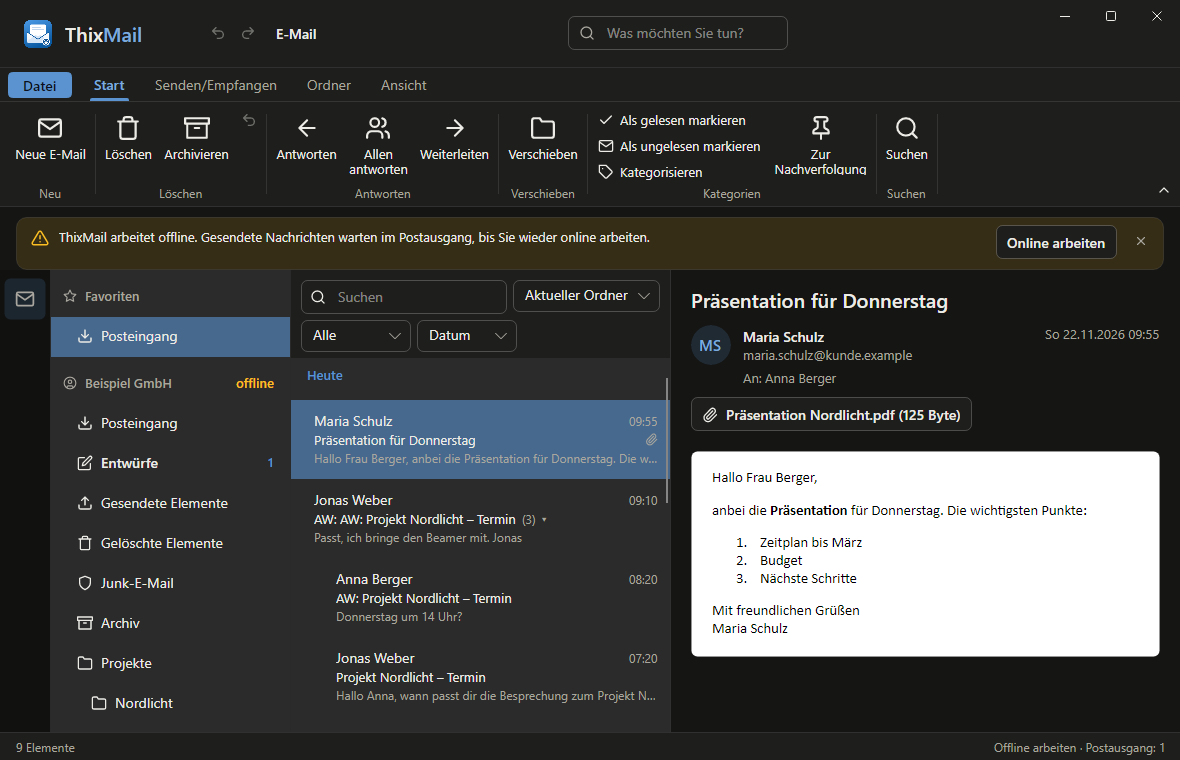
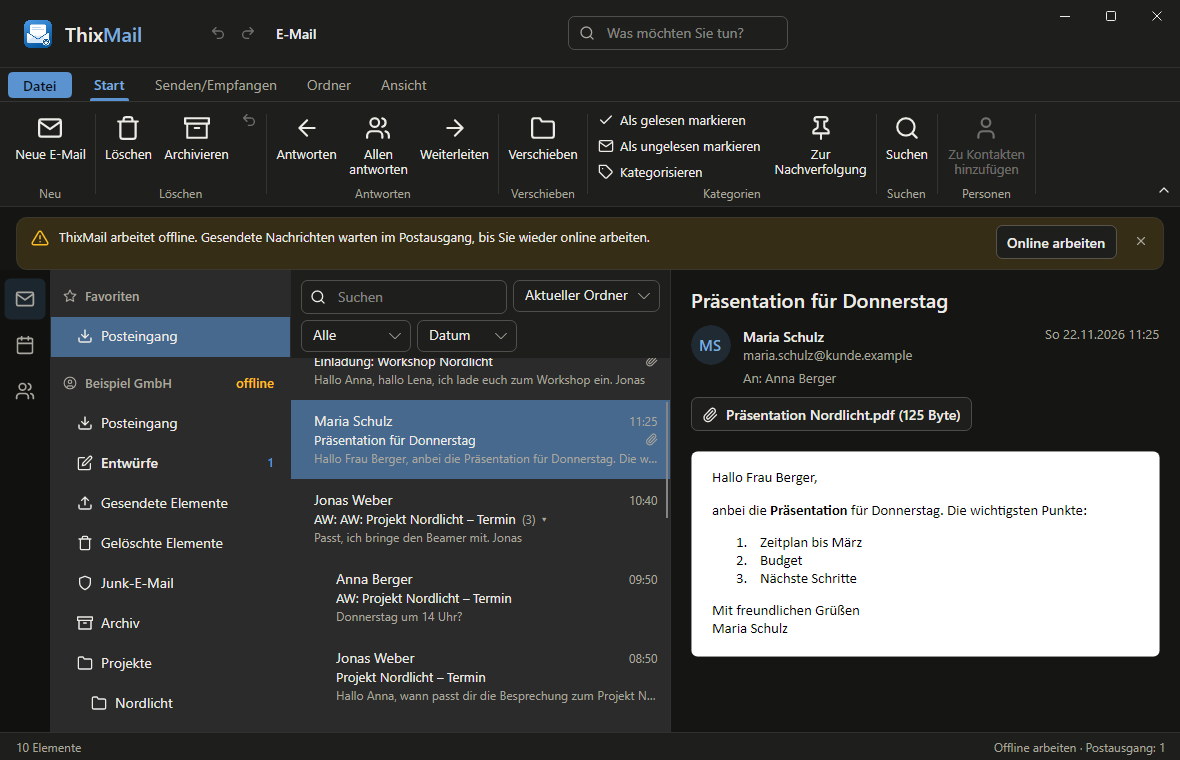
ThixMail: Zu Kontakten hinzufügen (the sender as a contact), the self test checks invitations and the calendar's items; docs: CLAUDE.md, README and PLAN.md for 7c (what is built and what is not), README pictures

diff --git a/src/ThixMail/Editor/MailCommands.cs b/src/ThixMail/Editor/MailCommands.cs
@@ -313,6 +313,13 @@ public static class MailCommands
             Keywords = ["bilder", "laden", "blockiert", "extern"],
             CanExecute = () => window.Editor is MailEditor { Reader.ShowsImagesBar: true },
         });
+        commands.Add(new OfficeCommand(MailCommandIds.AddSenderToContacts, "Zu Kontakten hinzufügen", () => AddSenderAsync(window, Editor()))
+        {
+            Icon = "user",
+            Description = "Legt den Absender der ausgewählten Nachricht als Kontakt an (Personen in der ThixCloud).",
+            Keywords = ["kontakt", "absender", "adressbuch", "person", "speichern"],
+            CanExecute = () => HasOne() && Editor().Document.Pim.IsAvailable,
+        });
         commands.Add(new OfficeCommand(MailCommandIds.AddAccount, "Konto hinzufügen", () => window.ShowBackstage(AccountsPage.PageId))
         {
             Icon = "user",
@@ -340,6 +347,33 @@ public static class MailCommands
                 SearchPenalty = command.SearchPenalty,
                 YieldsToTextField = command.YieldsToTextField,
             });
+        }
+    }
+
+    /// <summary>"Zu Kontakten hinzufügen": the contact dialog with the sender's name and address (an existing contact of that address opens instead).</summary>
+    private static async Task AddSenderAsync(OfficeWindow window, MailEditor editor)
+    {
+        if (editor.Current is not { } header || editor.Document.Pim.People is not { } people)
+        {
+            return;
+        }
+
+        var address = header.From.Address;
+        var existing = people.People.FirstOrDefault(p => p.Data.Emails.Any(e => e.Value.Equals(address, StringComparison.OrdinalIgnoreCase)));
+        var dialog = new ThixOffice.Pim.Desktop.People.ContactDialog(people, existing);
+        if (existing is null)
+        {
+            var name = header.From.Name.Trim();
+            var comma = name.IndexOf(',');
+            var space = name.LastIndexOf(' ');
+            (dialog.GivenName.Text, dialog.FamilyName.Text) = comma > 0 ? (name[(comma + 1)..].Trim(), name[..comma].Trim()) // "Schulz, Maria"
+                : space > 0 ? (name[..space], name[(space + 1)..]) : (name, "");
+            dialog.Emails.Rows[0].Box.Text = address;
+        }
+
+        if (await dialog.ShowAsync(window))
+        {
+            window.ShowMessage(existing is null ? $"„{header.From.Display}“ ist jetzt in Ihren Kontakten." : "Der Kontakt wurde gespeichert.", InfoSeverity.Success, isClosable: true);
         }
     }
 

diff --git a/src/ThixMail/MailSelfTest.cs b/src/ThixMail/MailSelfTest.cs
@@ -87,6 +87,24 @@ public static class MailSelfTest
             PdfExport.Export(pages, pdf, null, ThixWrite.Editor.WriteFonts.Measurer);
             Ensure(pdf.Length > 1000, "the PDF of a message is empty");
 
+            // 7c: invitations (iCalendar both ways) and ThixCalendar's items (the contract's JSON, trimmed publish included)
+            var invitation = ThixOffice.Pim.Calendar.Invitations.Read(ThixOffice.Pim.Calendar.Invitations.Request(new ThixOffice.Pim.Calendar.Invitation
+            {
+                Uid = "selbsttest@thixmail",
+                Summary = "Selbsttest",
+                Start = DateTimeOffset.UtcNow,
+                End = DateTimeOffset.UtcNow.AddHours(1),
+                Organizer = new ThixOffice.Pim.Calendar.InvitationAttendee("a@example.de", "A"),
+                Attendees = [new ThixOffice.Pim.Calendar.InvitationAttendee("b@example.de", "B")],
+            }));
+            Ensure(invitation is { Summary: "Selbsttest", Attendees.Count: 1 }, "an invitation does not survive iCalendar");
+            var item = ThixOffice.Pim.Calendar.CalendarItems.Serialize(new ThixOffice.Pim.Calendar.CalendarAppointment { CalendarKey = "a/b", Title = "x", Start = DateTimeOffset.UnixEpoch, End = DateTimeOffset.UnixEpoch });
+            Ensure(item.StartsWith("{\"calendar\":\"a/b\",\"title\":\"x\",", StringComparison.Ordinal) && item.Contains("\"status\":\"Confirmed\"", StringComparison.Ordinal), "the calendar's items are not ThixCalendar's");
+            editor.ShowView(Editor.MailArea.Calendar);
+            await Settle();
+            Ensure(editor.SignInPanel is not null || editor.CalendarView is not null, "the view Kalender does not show");
+            editor.ShowView(Editor.MailArea.Mail);
+
             return $"{count} messages synced, {server.Sent.Count} sent, PDF {pdf.Length / 1024} KB, {document.Store.CachedBytes / 1024} KB cached";
         }
         finally

diff --git a/tests/ThixMail.Tests/EmbeddingUiTests.cs b/tests/ThixMail.Tests/EmbeddingUiTests.cs
@@ -192,4 +192,27 @@ public sealed class EmbeddingUiTests
         await SettleAsync();
         Assert.Contains(editor.CalendarView.Shown, a => a.Title == "Workshop Nordlicht");
     }
+
+    [AvaloniaFact]
+    public async Task Zu_Kontakten_hinzufuegen_makes_the_sender_a_contact_with_name_and_address()
+    {
+        using var data = new TestData();
+        var window = await data.WindowAsync();
+        var editor = EditorOf(window);
+        var command = window.Commands[MailCommandIds.AddSenderToContacts];
+        editor.Select(Header(editor, "Präsentation für Donnerstag").Id);
+        await SettleAsync();
+        Assert.False(command.IsEnabled); // no ThixCloud: no contacts
+
+        await SignInAsync(new OfficeWindowLike(editor));
+        editor.Select(Header(editor, "Präsentation für Donnerstag").Id);
+        await SettleAsync();
+        Assert.True(command.IsEnabled);
+        var running = ThixOffice.Desktop.Shell.OfficeWindow.RunCommandAsync(window, command);
+        var dialog = await OwnedAsync<ContactDialog>(window);
+        Assert.Equal(("Maria", "Schulz", "maria.schulz@kunde.example"), (dialog.GivenName.Text, dialog.FamilyName.Text, dialog.Emails.Rows[0].Box.Text));
+        await ClickAsync(dialog, dialog.OkButton);
+        await running;
+        Assert.Contains(editor.Document.Pim.People!.People, p => p.Name == "Maria Schulz" && p.Email == "maria.schulz@kunde.example");
+    }
 }

diff --git a/src/ThixMail/Editor/MailEditor.cs b/src/ThixMail/Editor/MailEditor.cs
@@ -156,7 +156,7 @@ public sealed partial class MailEditor : OfficeEditor
         List.ContextMenu = OfficeCommandMenu.Create(window,
         [
             MailCommandIds.Reply, MailCommandIds.ReplyAll, MailCommandIds.Forward, null, MailCommandIds.ToggleRead, MailCommandIds.Categorize, MailCommandIds.Flag,
-            null, MailCommandIds.Move, MailCommandIds.Archive, MailCommandIds.Delete, null, MailCommandIds.SaveAs, MailCommandIds.Print,
+            null, MailCommandIds.Move, MailCommandIds.Archive, MailCommandIds.Delete, null, MailCommandIds.AddSenderToContacts, MailCommandIds.SaveAs, MailCommandIds.Print,
         ]);
 
         _emptyAction = new Button { Content = new IconLabel { Icon = "plus", Text = "Konto hinzufügen" } }.Themed("MatButton.Primary");

diff --git a/src/ThixMail/Editor/MailRibbon.cs b/src/ThixMail/Editor/MailRibbon.cs
@@ -39,7 +39,9 @@ public static class MailRibbon
                 Button(MailCommandIds.Categorize),
                 Toggle(MailCommandIds.Flag, size: MatRibbonSize.Large)),
             new MatRibbonGroup("find", "Suchen") { Icon = "search", ShrinkOrder = 5 }.Add(
-                Button(MailCommandIds.Search, MatRibbonSize.Large)));
+                Button(MailCommandIds.Search, MatRibbonSize.Large)),
+            new MatRibbonGroup("people", "Personen") { Icon = "users", ShrinkOrder = 6 }.Add(
+                Button(MailCommandIds.AddSenderToContacts, MatRibbonSize.Large)));
 
     private static MatRibbonTab SendReceiveTab() =>
         new MatRibbonTab("sendreceive", "Senden/Empfangen").Add(

diff --git a/src/ThixMail/Editor/MailCommandIds.cs b/src/ThixMail/Editor/MailCommandIds.cs
@@ -47,4 +47,5 @@ public static class MailCommandIds
     // the reading pane
     public const string LoadImages = "mail.loadImages";
     public const string AddAccount = "mail.addAccount";
+    public const string AddSenderToContacts = "mail.addSenderToContacts";
 }

diff --git a/CLAUDE.md b/CLAUDE.md
@@ -23,7 +23,9 @@ tab stops, the dialogs Schriftart/Absatz, format painter, symbols, HTML paste (s
 find/replace, clipboard, page setup, printing and PDF, CSV/xlsx/xlsm flows (section "ThixCalc's editor"; gaps in docs/PLAN.md).
 **ThixCalc charts (done):** the shared `ThixOffice.Charts` (section "Charts"). **Phase 7a, ThixContacts (done, first version):** the
 workspace mode of the shell, `ThixOffice.Pim` (+ `.Desktop`), ThixContacts on MatCloud's general sync (contract 1.5.0; section "ThixContacts"). **Phase 7b, ThixMail foundation (done, first version):**
-IMAP/SMTP accounts with auto-configuration, offline store and sync, reading pane, composer, Outlook's ribbon and keys (section "ThixMail"). **Phase 4, first version of ThixShow (done):** the
+IMAP/SMTP accounts with auto-configuration, offline store and sync, reading pane, composer, Outlook's ribbon and keys (section "ThixMail"). **Phase 7c,
+ThixMail's Mail | Kalender | Personen (done, first version):** the calendar and the people of the ThixCloud account inside ThixMail, invitations (section
+"ThixMail", "Calendar and people in ThixMail"). **Phase 4, first version of ThixShow (done):** the
 slide editor, thumbnails, sorter, show and presenter view, the German PowerPoint ribbon, printing/PDF (section "ThixShow's editor";
 gaps in docs/PLAN.md). **ThixWrite 1c (done):** footnotes/endnotes, table of contents, comments, spelling (shared seam), Referenzen/Überprüfen, odt. **ODF for ThixCalc (done):** .ods read and write (section "OpenDocument Spreadsheet"). Next the
 launcher entry and ThixWrite 1d (gaps in docs/PLAN.md). Do not build ribbon controls of
@@ -152,16 +154,26 @@ src/ThixOffice.Pim         (no UI) what ThixContacts and ThixMail share: Model/P
                            SQLite via Microsoft.Data.Sqlite, migrations by PRAGMA user_version, items of the general sync with IsDirty/Revision, pictures,
                            cursor; PimStores: one file per app and account, the local one copied into a new account's; PersonItems: persons/groups <-> items,
                            Suggest for address fields), Sync/PimSync (push dirty, pull above the cursor, last writer wins, tombstones, pictures up/down,
-                           the loop with long polls, retry 5 s to 5 min, 401 stops, 403 waits; ?app= for a granted app)
-src/ThixOffice.Pim.Desktop shared views: PersonAvatar (picture or initials), PersonCard (the read-only card), AddressField (suggestions, for ThixMail)
+                           the loop with long polls, retry 5 s to 5 min, 401 stops, 403 waits; ?app= for a granted app), Calendar/ (ThixCalendar's items of
+                           the general sync: CalendarModel – CalendarAccountEntry, CalendarEntry, CalendarAppointment –, CalendarItems: read/serialize with
+                           the contract's records and CloudContract.Json, BYTE FOR BYTE what ThixCalendar writes (it compares hashes), own calendars writable,
+                           cloud-* read-only; CalendarBook: calendars + appointments of a store, Between/Conflicts, EnsureOwnCalendar/AddOwnCalendar, Save/
+                           Delete with ThixCalendar's checks, KeyOfInvitation, meetings sent from here remembered in the store's meta; ICalendar: RFC 5545
+                           reader/writer, folding, TZID by Windows/IANA name or VTIMEZONE; Invitations: iTIP REQUEST/REPLY/CANCEL, AppointmentOf an answer)
+src/ThixOffice.Pim.Desktop shared views: PersonAvatar (picture or initials), PersonCard (the read-only card), AddressField (suggestions, for ThixMail);
+                           People/ = Outlook's "Personen" ONCE for ThixContacts and ThixMail: PeopleView (folders | list + search + letters | card, on a
+                           Func<ContactsSession>, remembered choices under a prefix), PeopleCommands (+ PeopleCommandOptions: e-mail, sync, print, keys;
+                           every command acts only while its view is given), PeopleRibbon (Create = ThixContacts' ribbon, Tabs(context) = ThixMail's
+                           contextual tabs), ContactsCommandIds, CategoryColors, ContactDialog + ContactsDialogs; Calendar/ = CalendarView (toolbar, the
+                           calendars, Tag/Arbeitswoche/Woche/Monat as canvases of blocks, OpenRequested/NewRequested), AppointmentDialog (the host's save:
+                           the book or a meeting), CalendarPalette (the ONE file turning the calendars' own colours – user data – into brushes; exempted)
 src/ThixContacts.Core      (no UI) ThixContactsApp.Definition (Kind Workspace, .vcf as import type, cloud id contacts), ContactsSession (persons and
                            groups in memory, Query: search/filter/sort, every change one undoable step, groups, categories, duplicates, merge, import with
                            pictures, export), ContactsDocument (the workspace document: the session of the account's store, PimSync while signed in,
                            ReconnectAsync on sign-in/out, StopSyncAsync when the cloud ends it), ContactFiles (read an import file, write an export atomically)
-src/ThixContacts           App (workspace: CreateDocument = the store, ImportFilesAsync for handed-over .vcf), Editor/ (ContactsEditor: folder pane, list
-                           with search + letters, PersonCard; ContactsCommands + ContactsCommandIds, ContactsRibbon, CategoryColors (Mat tokens by name),
-                           SampleContacts), Dialogs/ (ContactDialog: tabs Allgemein | Details | Notizen with value rows; Category, Members, Duplicates,
-                           Merge, CsvMapping, Export), Pages/ (ContactsPrintPage: Liste | Karten through OfficePrintPage, ContactsTransferPage, ContactsPdfPage;
+src/ThixContacts           App (workspace: CreateDocument = the store, ImportFilesAsync for handed-over .vcf), Editor/ (ContactsEditor: hosts the shared
+                           PeopleView + status bar, sign-in changes, the signed-out message; ContactsCommands = PeopleCommands with Drucken and Sync;
+                           SampleContacts), Pages/ (ContactsPrintPage: Liste | Karten through OfficePrintPage, ContactsTransferPage, ContactsPdfPage;
                            PrintPalette = the one file with literal colours), ContactsSelfTest
 src/ThixMail.Core          (no UI) ThixMailApp.Definition (Kind Workspace, .eml, cloud id mail); Model/MailModel (MailAccount without passwords,
                            ServerSettings, MailFolder + FolderRole, MessageHeader, MessageFlags, MailSignature, MailCategory); Accounts/ (AccountStore:
@@ -176,10 +188,16 @@ src/ThixMail.Core          (no UI) ThixMailApp.Definition (Kind Workspace, .eml,
                            second connection); Mime/ (MailMime: parse/bytes/summary, code pages registered by a module initializer; MailReader → ReadMail;
                            MailComposer: Draft → MIME, Reply/Forward like Outlook); Security/MailHtml (the view: HtmlImport in mail mode, remote pictures
                            only after consent, DescribeLink; RemotePictures; AttachmentSafety); MailSession (every action undoable and queued),
-                           MessageList (rows: date groups, conversations), MailDocument (the workspace document), EmlFiles
-src/ThixMail               App (workspace), Editor/ (MailEditor: navigation rail | folder pane | list | MessageView; MailRows: FolderRow, MessageRow,
-                           CategoryTokens; MessageView: header, "Bilder laden", attachments, body = read-only DocumentSurface; MessageWindow; MailCommands +
-                           MailCommandIds (Outlook's keys), MailRibbon, MoveDialog), Compose/ComposeWindow (own commands + ribbon, AddressField, DocumentSurface
+                           MessageList (rows: date groups, conversations), MailDocument (the workspace document; Pim), EmlFiles, MailPim (the account's
+                           contacts – ThixContacts' ContactsSession – and calendar – CalendarBook – in stores of this app, PimSync with ?app=contacts and
+                           ?app=calendar while signed in, ReconnectAsync), MailInvitations (View of a text/calendar part with conflicts, Answer: calendar +
+                           REPLY through the outbox, RemoveCancelled, SendMeeting/DeleteAppointment: REQUEST/CANCEL); Draft.Calendar → text/calendar part
+src/ThixMail               App (workspace), Editor/ (MailEditor: navigation rail | folder pane | list | MessageView, MailEditor.Views: MailArea Mail/Calendar/
+                           People, ShowView, the shared CalendarView/PeopleView or the sign-in, contextual ribbon contexts "calendar"/"people", the invitation
+                           bar's answers; MailRows: FolderRow, MessageRow, CategoryTokens; MessageView: header, "Bilder laden", the invitation bar,
+                           attachments, body = read-only DocumentSurface; MessageWindow; MailCommands + MailCommandIds (Outlook's keys; act only in the view
+                           E-Mail), CalendarCommands (+ CalendarCommandIds: Strg+1/2/3, the calendar's commands and tabs, the people commands), MailRibbon,
+                           MoveDialog), Compose/ComposeWindow (own commands + ribbon, AddressField, DocumentSurface
                            editor, HtmlExport on send), Pages/ (AccountsPage + AccountForm, MailSettings: the four settings tabs + SignaturesPanel,
                            MailPages: printing/PDF of a message), MailNotifier (IMailNotifier seam), SampleMailbox, MailSelfTest
 src/ThixWrite.Desktop      ThixWrite's text surface shared with ThixMail: DocumentSurface (+ CaretLayer, WriteInputClient; IsStory, IsReadOnly), PagePictures +
@@ -263,10 +281,11 @@ tests/ThixOffice.Pim.Tests      the shared vCard/CSV fixtures, the store (migrat
 tests/ThixContacts.Core.Tests   the session on a real store (rules, undo, groups, merge, import/export, 50,000 contacts), the document's sync
 tests/ThixContacts.Tests        the real ThixContacts headless: workspace shell, Strg+N/F2/Entf/Strg+E, folders, letters, groups, import (vcf, CSV mapping),
                                 export, print, sync and sign-out, merge, snapshots, no literal colours
-tests/ThixMail.Core.Tests       the sync against SampleMailServer (CONDSTORE and polling, moves, expunges, UIDVALIDITY, queue replay, outbox, drafts,
+tests/ThixMail.Core.Tests       EmbeddingTests (7c against SampleCloud + SampleMailServer: two computers, a contact in ThixContacts' model,
+                                the invitation round trip, meetings), the sync against SampleMailServer (CONDSTORE and polling, moves, expunges, UIDVALIDITY, queue replay, outbox, drafts,
                                 IDLE, reconnect), threading, FTS5 search, 200,000 messages, the 15 fixture mails (Fixtures/, made by make-fixtures.ps1),
                                 composing/replying, the sanitizer as a table of attacks, auto-configuration, accounts and passwords
-tests/ThixMail.Tests            the real ThixMail headless: add an account (test, certificate), read (pictures blocked/loaded), reply + Strg+Eingabe,
+tests/ThixMail.Tests            EmbeddingUiTests (Strg+1/2/3, the sign-in, appointments, contacts, the invitation bar), the real ThixMail headless: add an account (test, certificate), read (pictures blocked/loaded), reply + Strg+Eingabe,
                                 send checks, delete + undo, drag onto a folder, search, conversations, offline/online, notifications, .eml, settings tabs,
                                 200,000 rows, the fixture mails as pictures (<folder>/mails), snapshots, no literal colours
 tests/ThixShow.Core.Tests       colours against documented Office values, preset formulas against known paths, inheritance, rendering
@@ -379,9 +398,29 @@ scripts/package-macos.sh   <Name>.app per app (Info.plist with CFBundleGetInfoSt
 - **Shell extensions used:** `OfficeApplication.CreateSettingsTabs` (Lesen, Verfassen, Signaturen, Benachrichtigungen after Allgemein;
   `SettingsPage.ShowTab(id)`/`AppTab(id)`), `CreateBackstageItems` (Konten, Drucken, Als PDF speichern), `ImportFilesAsync` (.eml → `MessageWindow`).
 - Snapshot scenes `main-conversation`, `main-newsletter`, `compose`, `backstage-add-account`, `main-attachments`, `main-offline`,
-  `backstage-settings-signatures` on `SampleMailbox`; `THIXMAIL_SCREENSHOTS=<folder> dotnet test tests/ThixMail.Tests` also draws the 15 fixture mails
+  `backstage-settings-signatures`, `main-calendar-signin`, `main-calendar`, `main-calendar-month`, `dialog-appointment`, `main-people`,
+  `main-invitation` on `SampleMailbox` (+ `SampleMailbox.FillPim` after a sign-in at the snapshots' cloud in memory); `THIXMAIL_SCREENSHOTS=<folder> dotnet test tests/ThixMail.Tests` also draws the 15 fixture mails
   into `<folder>/mails`. The integration run against a real IMAP/SMTP server: `scripts/greenmail-test.ps1` (throwaway GreenMail container, env-gated
   `RealServerTests`).
+
+### Calendar and people in ThixMail (7c)
+
+- **Views:** `MailEditor.ShowView(MailArea)` (the navigation bar, Strg+1/2/3, Ansicht › Navigation). Kalender = `CalendarView`, Personen = `PeopleView`
+  (the same as ThixContacts'), both on `MailDocument.Pim` (`MailPim`: stores `mailcontacts` and `mailcalendar` of the account, `PimSync` with
+  `?app=contacts` / `?app=calendar` – the grants of contract 1.5.0). Without a ThixCloud account the views show why and the `CloudSignInPanel`; mail
+  works without. Sign-in changes reach `MailPim.ReconnectAsync` through the editor (`CloudService.StatusChanged`); 401 stops the syncs, data stays.
+- **Commands and keys:** every mail command acts only in the view E-Mail (`MailCommands` wraps them), the calendar's only in Kalender, the people
+  commands only in Personen – so Strg+N, Entf, Strg+E, F9 belong to the active view: `OfficeWindow` runs the FIRST ENABLED command of a key (a text field
+  keeps a key no command can use now). Ribbon: the contextual tabs of the contexts `calendar` (Kalender) and `people` (Personen, Kontaktgruppen,
+  Personenansicht) are shown by `ShowView`; the mail tabs stay (their commands disabled).
+- **Calendar data:** ThixCalendar's items (`CalendarItems`): own calendars (account kind Local, "Eigene Kalender") are written – events, and an
+  account + calendar "Kalender" when the account has none –, calendars MatCloud keeps in step (cloud-*) are shown read-only; online accounts each computer
+  syncs itself are not in the cloud and do not show. The contract has no series, participants or organizer for own events: invitations enter their first
+  meeting; the participants of meetings sent from ThixMail are kept in the store's meta (not synced). Reminders are ThixCalendar's (ThixMail fires none).
+- **Invitations:** `MailReader` keeps a text/calendar part (`ReadMail.Calendar`), `MailInvitations.View` reads it (`Invitations.Read`) with the
+  overlaps; `MessageView.ShowInvitation` draws the bar (Zusagen | Mit Vorbehalt | Absagen, "Aus Kalender entfernen" for a CANCEL); answers write the
+  appointment (key `CalendarBook.KeyOfInvitation(uid)`, the same on every computer) and send the REPLY. Sent invitations: multipart/alternative with
+  text/calendar;method=… plus invite.ics (`MailComposer.WithCalendar`).
 
 ## ThixCloud and ThixDrive (shared by every app)
 

diff --git a/docs/PLAN.md b/docs/PLAN.md
@@ -606,6 +606,8 @@ fehlen (Name → wo, Platzhalter heute):
 | `offline` | ThixMail: Offline arbeiten (`mail.workOffline`) | `power` |
 | `reading-pane-right`, `reading-pane-bottom` | ThixMail: Ansicht › Lesebereich | `columns`, `layers` |
 | `signature` | ThixMail: Signatur einfügen (`compose.signature`) | `edit` |
+| `user-plus` | ThixMail: Zu Kontakten hinzufügen (`mail.addSenderToContacts`) | `user` |
+| `calendar-plus`, `calendar-week`, `calendar-month`, `calendar-day` | ThixMail: Neuer Termin, Arbeitswoche/Woche/Monat/Tag (`calendar.*`) | `plus`, `columns`, `grid` |
 
 **Weitere Wünsche an MatDesktop (nicht nur Symbole):**
 
@@ -737,7 +739,7 @@ gespeist über den Sync von ThixCloud.** Mail-Konten zuerst über **IMAP und SMT
   schreiben (HTML + Text, eingebettete Bilder, Anlagen, RFC 2047/2231, Antworten/Weiterleiten wie Outlook, alte Zeichensätze) und die Sicherheit
   angezeigter Mails (HtmlImport im Mail-Modus, Bilder aus dem Netz erst nach Zustimmung, Linkziele, ausführbare Anlagen nur mit Warnung).
   `ThixWrite.Desktop` (neu) trägt die Textfläche von ThixWrite für ThixMail: Lesebereich (nur lesend) und Nachrichtenfenster. `ThixMail`:
-  Navigationsleiste (Mail; Kalender/Personen erscheinen mit 7c), Ordnerbereich, Liste (200.000 Nachrichten), Lesebereich rechts/unten/aus,
+  Navigationsleiste, Ordnerbereich, Liste (200.000 Nachrichten), Lesebereich rechts/unten/aus,
   Nachrichtenfenster, Menüband Start | Senden/Empfangen | Ordner | Ansicht, Tasten wie das deutsche Outlook, Konten-Seite, Einstellungen Lesen |
   Verfassen | Signaturen | Benachrichtigungen, Benachrichtigungen, Infobereich, Drucken/PDF, .eml. Tests: Kern gegen SampleMailServer, UI mit
   echten Eingaben, 12 Beispielmails als Bilder, und ein Lauf gegen einen echten Server (GreenMail im Wegwerf-Container, `scripts/greenmail-test.ps1`).
@@ -757,6 +759,26 @@ gespeist über den Sync von ThixCloud.** Mail-Konten zuerst über **IMAP und SMT
   letztes `<br>` oder Words `<o:p>`; drei weitere Beispielmails (Bestellbestätigung, Newsletter mit drei Spalten, Antwort mit Signaturtabelle).
   Nachrichtenfenster: Rechtschreibprüfung beim Tippen (gemeinsame Naht, Vorschläge im Kontextmenü) und Einfügen von HTML anderer Programme
   (Reihenfolge wie ThixWrite: eigene Formatierung, HTML, Text, Bild). Abgeschnittene Unterlängen im Menüband durch einen Stil von außen behoben.
+
+- **Stand (2026-11-22): 7c – erste Version (dev).** Navigationsleiste E-Mail | Kalender | Personen (Strg+1/2/3, Ansicht › Navigation). Beide Ansichten
+  arbeiten auf den Daten des ThixCloud-Kontos über den allgemeinen Sync mit den Freigaben von Vertrag 1.5.0 (`?app=contacts`, `?app=calendar`; je ein
+  eigener Bestand in ThixMail, `MailPim`); ohne Anmeldung erklären sie das und zeigen die Anmeldung, E-Mail geht ohne. **Personen** ist dieselbe Ansicht
+  wie ThixContacts (Ansicht, Befehle, Menüband, Dialoge nach `ThixOffice.Pim.Desktop/People` verschoben – eine Codebasis), „E-Mail senden“ öffnet das
+  Nachrichtenfenster; neu „Zu Kontakten hinzufügen“ für den Absender. **Kalender:** ThixCalendars Elemente byte-genau gelesen und geschrieben
+  (`ThixOffice.Pim/Calendar`), Tag/Arbeitswoche/Woche/Monat, die Kalender links (auf diesem Computer ein-/ausblendbar), Termin-Dialog (Titel, Ort,
+  Beginn/Ende, ganztägig, Kalender, Erinnerung, mit Vorbehalt, Teilnehmer, Notizen), Besprechungen mit Einladung (iTIP REQUEST, beim Löschen CANCEL),
+  fehlt ein eigener Kalender, legt der erste Termin „Eigene Kalender › Kalender“ an. **Einladungen:** Leiste mit Zeit, Ort, Organisator und den
+  Überschneidungen; Zusagen/Mit Vorbehalt/Absagen trägt ein bzw. nimmt heraus und schickt das REPLY; Absagen des Organisators: „Aus Kalender entfernen“.
+  Adressfelder schlagen Kontakte des Kontos vor (schon seit 7b, jetzt aus demselben Bestand). Die Menübänder sind kontextabhängige Registerkarten
+  (Kalender; Personen, Kontaktgruppen, Personenansicht); Tasten gehören der aktiven Ansicht (der erste aktive Befehl einer Taste läuft – Hülle).
+  **Nicht gebaut / Lücken:** keine Serien (ThixCalendars eigene Kalender kennen keine; eine Serieneinladung trägt nur den ersten Termin ein, Termine aus
+  von MatCloud abgeglichenen Konten zeigen ihre Serien nur als einzelne Vorkommen), keine Teilnehmer/Organisator in den Terminen selbst (der Vertrag trägt
+  sie nicht: die Teilnehmer von Besprechungen aus ThixMail bleiben auf diesem Computer), Termine aus MatCloud-Konten (Microsoft/Google/ICS „über MatCloud“)
+  nur lesend (ändern über `/api/v1/calendar/events` ist nicht angebunden), Konten, die jeder Computer selbst abgleicht, erscheinen gar nicht (ihre Termine
+  liegen nicht in der Cloud), keine Erinnerungen in ThixMail (die zeigt ThixCalendar), kein Ziehen von Terminen mit der Maus, keine Frei/Gebucht-Abfrage
+  der Teilnehmer, keine Antworten der Teilnehmer gesammelt (ein REPLY wird als Leiste gezeigt, nicht verbucht), keine Kalenderfarben wählbar, kein
+  Drucken des Kalenders, keine Zeitzonen-Auswahl im Dialog, kein Kalender ohne ThixCloud (bewusst: Entscheidung „über den Sync“). Personen: kein Drucken
+  in ThixMail (ThixContacts druckt).
 
 Offen: Umfang von 7d und ob ThixContacts später auch ohne ThixCloud per CardDAV synchronisiert.
 
